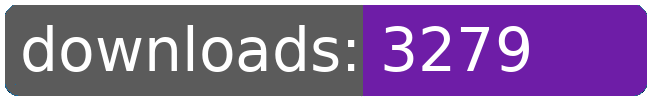
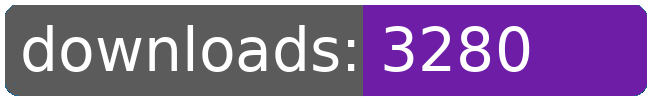
dl log written

Changed region(s): [[0.7077, 0.24, 0.8308, 0.72]]

diff --git a/README.md b/README.md
@@ -21,8 +21,8 @@
 		<td>4134</td>
 		<td>4163</td>
 		<td>4189</td>
-		<td>4201</td>
-		<td>+ 12</td>
+		<td>4202</td>
+		<td>+ 13</td>
 	</tr>
 	<tr>
 		<td>aberrant.kahet.outfitter</td>
@@ -197,8 +197,8 @@
 		<td>3232</td>
 		<td>3249</td>
 		<td>3269</td>
-		<td>3279</td>
-		<td>+ 10</td>
+		<td>3280</td>
+		<td>+ 11</td>
 	</tr>
 	<tr>
 		<td>reduce.requiredcrew</td>
@@ -274,8 +274,8 @@
 		<td></td>
 		<td></td>
 		<td></td>
-		<td>62874</td>
-		<td>197</td>
+		<td>62876</td>
+		<td>199</td>
 	</tr>
 </table>
 </sub></sup>
@@ -311,8 +311,8 @@
 		<td>4134</td>
 		<td>4163</td>
 		<td>4189</td>
-		<td>4201</td>
-		<td>+ 12</td>
+		<td>4202</td>
+		<td>+ 13</td>
 	</tr>
 	<tr>
 		<td>bunrodeaoutfitter</td>
@@ -388,8 +388,8 @@
 		<td>3232</td>
 		<td>3249</td>
 		<td>3269</td>
-		<td>3279</td>
-		<td>+ 10</td>
+		<td>3280</td>
+		<td>+ 11</td>
 	</tr>
 	<tr>
 		<td>obtainheron</td>
@@ -553,8 +553,8 @@
 		<td></td>
 		<td></td>
 		<td></td>
-		<td>62874</td>
-		<td>197</td>
+		<td>62876</td>
+		<td>199</td>
 	</tr>
 </table>
 </sub></sup>
